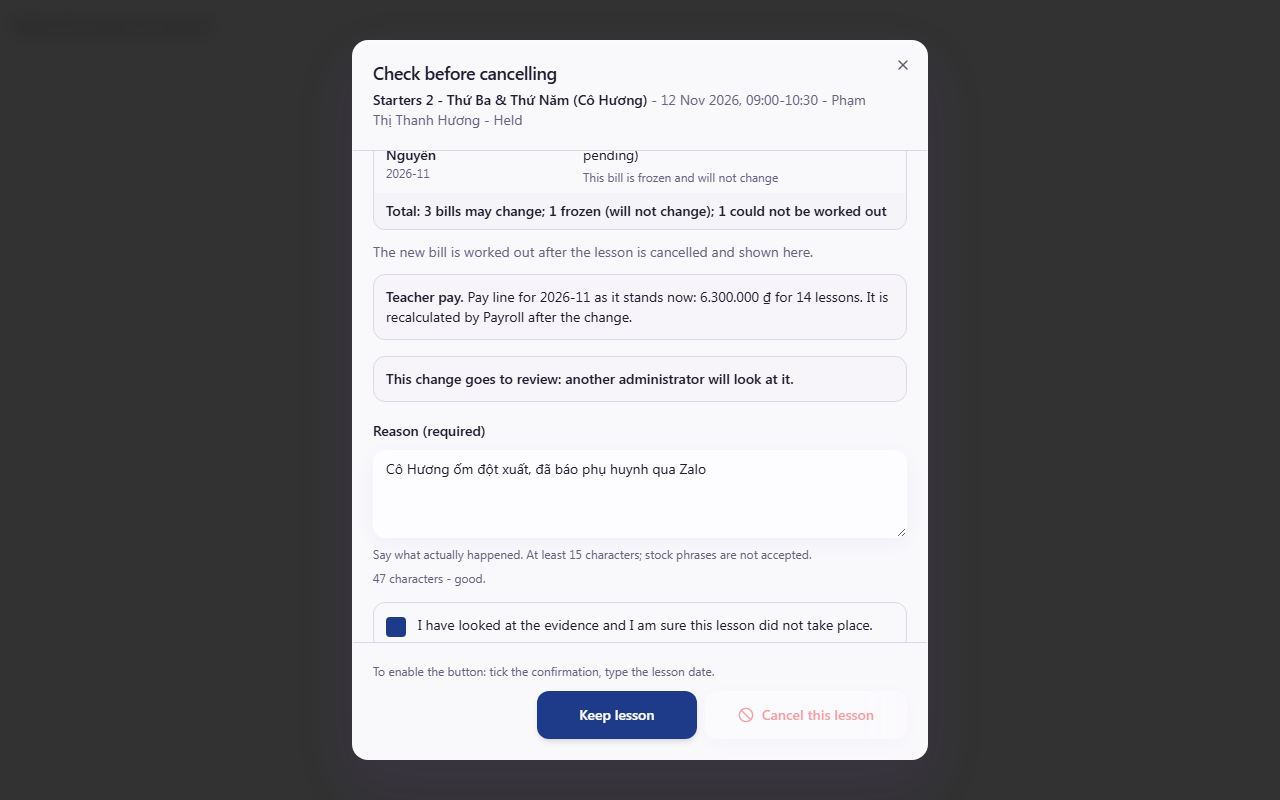
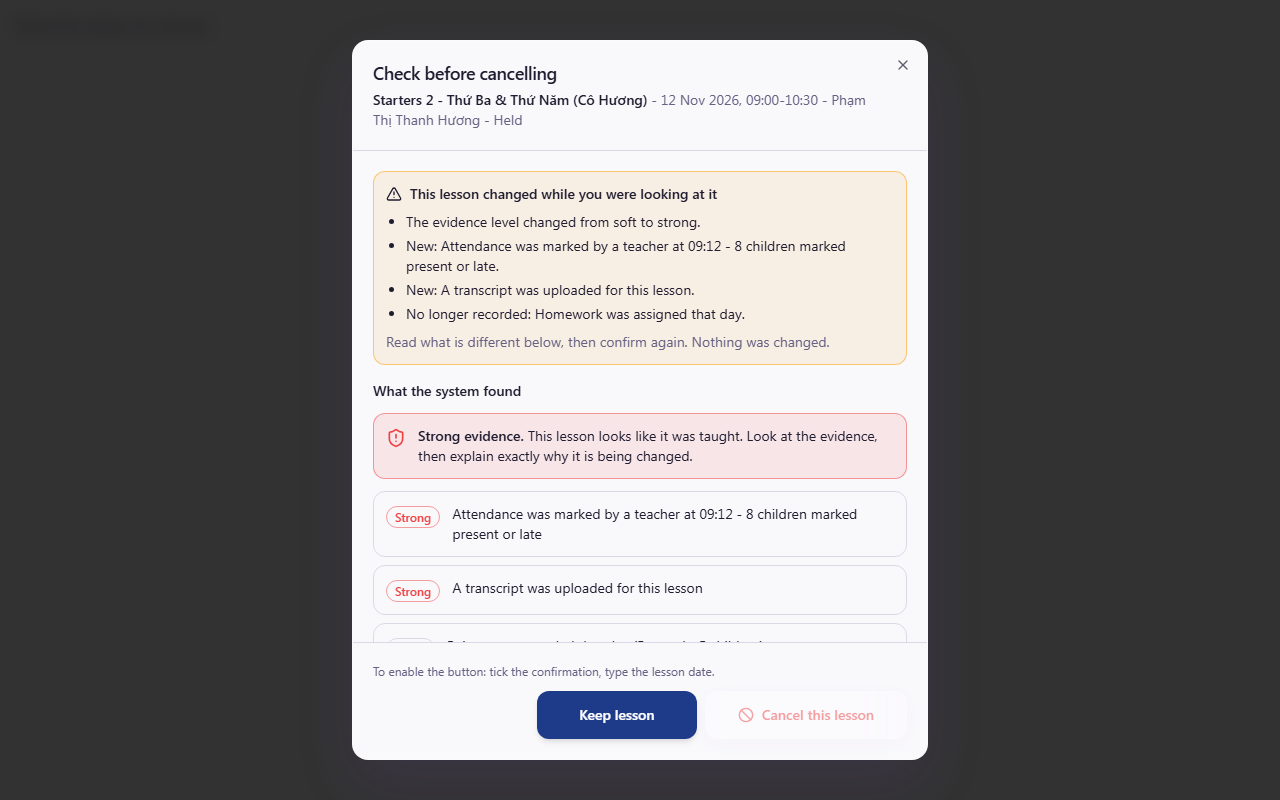
D3: fix type errors found by tsc (WIP)

diff --git a/src/components/admin/session-guard/api.ts b/src/components/admin/session-guard/api.ts
@@ -1,7 +1,8 @@
 import { supabase } from "@/integrations/supabase/client";
 import { parseInvokeError, type GuardErrorBody } from "@/lib/sessionGuard";
 
-export type CallResult<T = any> = { ok: true; data: T } | { ok: false; error: GuardErrorBody };
+// `error`/`data` are declared on both arms because this repo does not run strictNullChecks, where a boolean `ok` would not narrow.
+export type CallResult<T = any> = { ok: true; data: T; error?: undefined } | { ok: false; error: GuardErrorBody; data?: undefined };
 
 /**
  * Calls one of the checked-cancellation edge functions as the signed-in

diff --git a/src/components/admin/session-guard/GuardDialog.tsx b/src/components/admin/session-guard/GuardDialog.tsx
@@ -158,7 +158,7 @@ export function GuardDialog({ open, session, op, change, onClose, onDone, onCanc
             <DoneBody op={op} success={success} retrying={retry.busy} retryError={retry.error?.code ?? null} onRetry={g.retryRefresh} />
           )}
 
-          {ready && preview && phase !== "done" && (
+          {ready && preview && (
             <>
               {stale && (
                 <div role="alert" className="space-y-2 rounded-xl border border-warning/60 bg-warning/10 p-3 text-sm">
